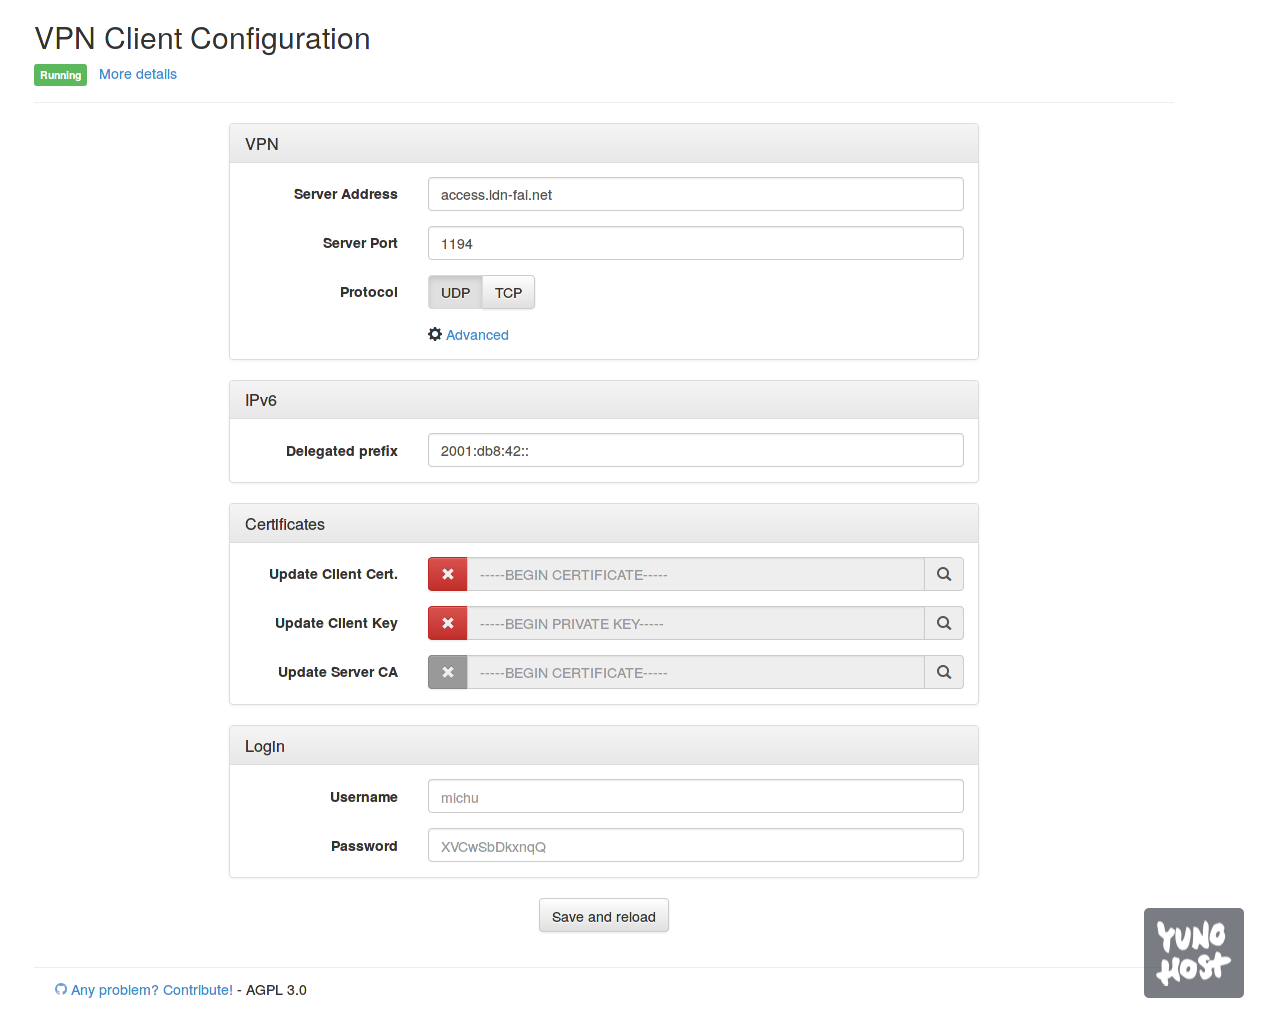
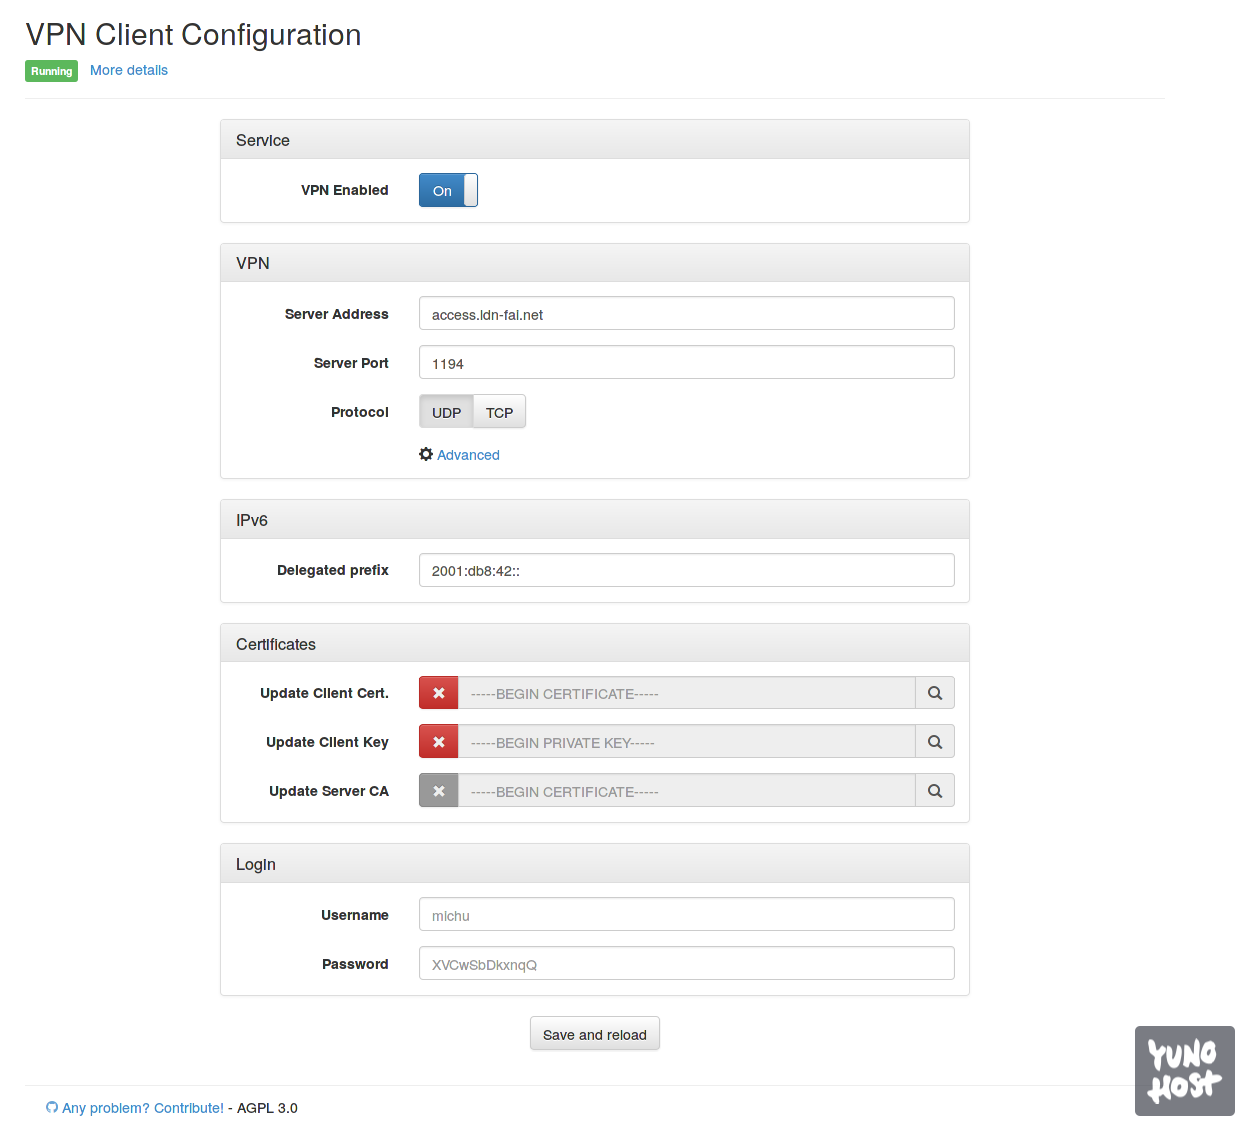
Add enable/disable feature

diff --git a/sources/public/js/bootstrap-toggle.min.js b/sources/public/js/bootstrap-toggle.min.js
@@ -1,0 +1,9 @@
+/*! ========================================================================
+ * Bootstrap Toggle: bootstrap-toggle.js v2.0.0
+ * http://www.bootstraptoggle.com
+ * ========================================================================
+ * Copyright 2014 Min Hur, The New York Times Company
+ * Licensed under MIT
+ * ======================================================================== */
++function(a){"use strict";function b(b){return this.each(function(){var d=a(this),e=d.data("bs.toggle"),f="object"==typeof b&&b;e||d.data("bs.toggle",e=new c(this,f)),"string"==typeof b&&e[b]&&e[b]()})}var c=function(b,c){this.$element=a(b),this.options=a.extend({},this.defaults(),c),this.render()};c.VERSION="3.0.0",c.DEFAULTS={on:"On",off:"Off",onstyle:"primary",offstyle:"default",size:"normal",style:""},c.prototype.defaults=function(){return{on:this.$element.attr("data-on")||c.DEFAULTS.on,off:this.$element.attr("data-off")||c.DEFAULTS.off,onstyle:this.$element.attr("data-onstyle")||c.DEFAULTS.onstyle,offstyle:this.$element.attr("data-offstyle")||c.DEFAULTS.offstyle,size:this.$element.attr("data-size")||c.DEFAULTS.size,style:this.$element.attr("data-style")||c.DEFAULTS.style}},c.prototype.render=function(){this._onstyle="btn-"+this.options.onstyle,this._offstyle="btn-"+this.options.offstyle;var b="large"===this.options.size?"btn-lg":"small"===this.options.size?"btn-sm":"mini"===this.options.size?"btn-xs":"",c=a('<label class="btn">').html(this.options.on).addClass(this._onstyle+" "+b),d=a('<label class="btn">').html(this.options.off).addClass(this._offstyle+" "+b+" active"),e=a('<span class="toggle-handle btn btn-default">').addClass(b),f=a('<div class="toggle-group">').append(c,d,e),g=a('<div class="toggle btn" data-toggle="toggle">').addClass(this.$element.prop("checked")?this._onstyle:this._offstyle+" off").addClass(b).addClass(this.options.style);this.$element.wrap(g),a.extend(this,{$toggle:this.$element.parent(),$toggleOn:c,$toggleOff:d,$toggleGroup:f}),this.$toggle.append(f);var h=Math.max(c.outerWidth(),d.outerWidth())+e.outerWidth()/2,i=Math.max(c.outerHeight(),d.outerHeight());c.addClass("toggle-on"),d.addClass("toggle-off"),this.$toggle.css({width:h,height:i}),this.update(),this.trigger(!0)},c.prototype.toggle=function(){this.$element.prop("checked")?this.off():this.on()},c.prototype.on=function(){return this.$element.prop("disabled")?!1:(this.$toggle.removeClass(this._offstyle+" off").addClass(this._onstyle),this.$element.prop("checked",!0),void this.trigger())},c.prototype.off=function(){return this.$element.prop("disabled")?!1:(this.$toggle.removeClass(this._onstyle).addClass(this._offstyle+" off"),this.$element.prop("checked",!1),void this.trigger())},c.prototype.enable=function(){this.$toggle.removeAttr("disabled"),this.$element.prop("disabled",!1)},c.prototype.disable=function(){this.$toggle.attr("disabled","disabled"),this.$element.prop("disabled",!0)},c.prototype.update=function(){this.$element.prop("disabled")?this.disable():this.enable(),this.$element.prop("checked")?this.on():this.off()},c.prototype.trigger=function(b){this.$element.off("change.bs.toggle"),b||this.$element.change(),this.$element.on("change.bs.toggle",a.proxy(function(){this.update()},this))},c.prototype.destroy=function(){this.$element.off("change.bs.toggle"),this.$toggleGroup.remove(),this.$element.removeData("bs.toggle"),this.$element.unwrap()};var d=a.fn.bootstrapToggle;a.fn.bootstrapToggle=b,a.fn.bootstrapToggle.Constructor=c,a.fn.toggle.noConflict=function(){return a.fn.bootstrapToggle=d,this},a(function(){a("input[type=checkbox][data-toggle^=toggle]").bootstrapToggle()}),a(document).on("click.bs.toggle","div[data-toggle^=toggle]",function(b){var c=a(this).find("input[type=checkbox]");c.bootstrapToggle("toggle"),b.preventDefault()})}(jQuery);
+//# sourceMappingURL=bootstrap-toggle.min.js.map

diff --git a/sources/public/css/bootstrap-toggle.min.css b/sources/public/css/bootstrap-toggle.min.css
@@ -1,0 +1,28 @@
+/*! ========================================================================
+ * Bootstrap Toggle: bootstrap-toggle.css v2.0.0
+ * http://www.bootstraptoggle.com
+ * ========================================================================
+ * Copyright 2014 Min Hur, The New York Times Company
+ * Licensed under MIT
+ * ======================================================================== */
+.checkbox label .toggle,.checkbox-inline .toggle{margin-left:-20px;margin-right:5px}
+.toggle{position:relative;overflow:hidden}
+.toggle input[type=checkbox]{display:none}
+.toggle-group{position:absolute;width:200%;top:0;bottom:0;left:0;transition:left .35s;-webkit-transition:left .35s;-moz-user-select:none;-webkit-user-select:none}
+.toggle.off .toggle-group{left:-100%}
+.toggle-on{position:absolute;top:0;bottom:0;left:0;right:50%;margin:0;border:0;border-radius:0}
+.toggle-off{position:absolute;top:0;bottom:0;left:50%;right:0;margin:0;border:0;border-radius:0}
+.toggle-handle{position:relative;margin:0 auto;padding-top:0;padding-bottom:0;height:100%;width:0;border-width:0 1px}
+.toggle.btn{min-width:59px;min-height:34px}
+.toggle-on.btn{padding-right:24px}
+.toggle-off.btn{padding-left:24px}
+.toggle.btn-lg{min-width:79px;min-height:45px}
+.toggle-on.btn-lg{padding-right:31px}
+.toggle-off.btn-lg{padding-left:31px}
+.toggle-handle.btn-lg{width:40px}
+.toggle.btn-sm{min-width:50px;min-height:30px}
+.toggle-on.btn-sm{padding-right:20px}
+.toggle-off.btn-sm{padding-left:20px}
+.toggle.btn-xs{min-width:35px;min-height:22px}
+.toggle-on.btn-xs{padding-right:12px}
+.toggle-off.btn-xs{padding-left:12px}

diff --git a/sources/public/js/custom.js b/sources/public/js/custom.js
@@ -20,6 +20,8 @@ $(document).ready(function() {
   $('.btn-group').button();
   $('[data-toggle="tooltip"]').tooltip();
 
+  $('.switch').bootstrapToggle();
+
   $('.fileinput').click(function() {
     if(!$(this).hasClass('btn-danger')) {
       var realinputid = '#' + $(this).attr('id').replace(/_chooser.*/, '');
@@ -86,5 +88,13 @@ $(document).ready(function() {
   $('#raw_openvpn_btn').click(function() {
     $('#raw_openvpn_btnpanel').hide();
     $('#raw_openvpn_panel').show('low');
+  });
+
+  $('#service_enabled').change(function() {
+    if($('#service_enabled').parent().hasClass('off')) {
+      $('.enabled').hide('slow');
+    } else {
+      $('.enabled').show('slow');
+    }
   });
 });

diff --git a/sources/controller.php b/sources/controller.php
@@ -65,6 +65,7 @@ dispatch('/', function() {
   $ip6_net = ($ip6_net == 'none') ? '' : $ip6_net;
   $raw_openvpn = file_get_contents('/etc/openvpn/client.conf.tpl');
 
+  set('service_enabled', moulinette_get('service_enabled'));
   set('server_name', moulinette_get('server_name'));
   set('server_port', moulinette_get('server_port'));
   set('server_proto', moulinette_get('server_proto'));
@@ -85,99 +86,109 @@ dispatch_put('/settings', function() {
   $crt_client_key_exists = file_exists('/etc/openvpn/keys/user.key');
   $crt_server_ca_exists = file_exists('/etc/openvpn/keys/ca-server.crt');
 
+  $service_enabled = isset($_POST['service_enabled']) ? 1 : 0;
   $ip6_net = empty($_POST['ip6_net']) ? 'none' : $_POST['ip6_net'];
   $ip6_addr = 'none';
 
-  try {
-    if(empty($_POST['server_name']) || empty($_POST['server_port']) || empty($_POST['server_proto'])) {
-      throw new Exception(T_('The Server Address, the Server Port and the Protocol cannot be empty'));
-    }
-  
-    if(!preg_match('/^\d+$/', $_POST['server_port'])) {
-      throw new Exception(T_('The Server Port must be only composed of digits'));
-    }
-  
-    if($_POST['server_proto'] != 'udp' && $_POST['server_proto'] != 'tcp') {
-      throw new Exception(T_('The Protocol must be "udp" or "tcp"'));
-    }
-  
-    if(($_FILES['crt_client']['error'] == UPLOAD_ERR_OK && $_FILES['crt_client_key']['error'] != UPLOAD_ERR_OK && (!$crt_client_key_exists || $_POST['crt_client_key_delete'] == 1))
-      || ($_FILES['crt_client_key']['error'] == UPLOAD_ERR_OK && $_FILES['crt_client']['error'] != UPLOAD_ERR_OK && (!$crt_client_exists || $_POST['crt_client_delete'] == 1))) {
-  
-      throw new Exception(T_('A Client Certificate is needed when you suggest a Key, or vice versa'));
-    }
-  
-    if(empty($_POST['login_user']) xor empty($_POST['login_passphrase'])) {
-      throw new Exception(T_('A Password is needed when you suggest a Username, or vice versa'));
-    }
-  
-    if($_FILES['crt_server_ca']['error'] != UPLOAD_ERR_OK && !$crt_server_ca_exists) {
-      throw new Exception(T_('You need a Server CA.'));
-    }
-  
-    if(($_FILES['crt_client_key']['error'] != UPLOAD_ERR_OK && (!$crt_client_key_exists || $_POST['crt_client_key_delete'] == 1)) && empty($_POST['login_user'])) {
-      throw new Exception(T_('You need either a Client Certificate, either a Username, or both'));
-    }
-  
-    if($ip6_net != 'none') {
-      $ip6_net = ipv6_expanded($ip6_net);
-  
-      if(empty($ip6_net)) {
-        throw new Exception(T_('The IPv6 Delegated Prefix format looks bad'));
+  if($service_enabled == 1) {
+    try {
+      if(empty($_POST['server_name']) || empty($_POST['server_port']) || empty($_POST['server_proto'])) {
+        throw new Exception(T_('The Server Address, the Server Port and the Protocol cannot be empty'));
       }
-  
-      $ip6_blocs = explode(':', $ip6_net);
-      $ip6_addr = "${ip6_blocs[0]}:${ip6_blocs[1]}:${ip6_blocs[2]}:${ip6_blocs[3]}:${ip6_blocs[4]}:${ip6_blocs[5]}:${ip6_blocs[6]}:42";
-  
-      $ip6_net = ipv6_compressed($ip6_net);
-      $ip6_addr = ipv6_compressed($ip6_addr);
-    }
+    
+      if(!preg_match('/^\d+$/', $_POST['server_port'])) {
+        throw new Exception(T_('The Server Port must be only composed of digits'));
+      }
+    
+      if($_POST['server_proto'] != 'udp' && $_POST['server_proto'] != 'tcp') {
+        throw new Exception(T_('The Protocol must be "udp" or "tcp"'));
+      }
+    
+      if(($_FILES['crt_client']['error'] == UPLOAD_ERR_OK && $_FILES['crt_client_key']['error'] != UPLOAD_ERR_OK && (!$crt_client_key_exists || $_POST['crt_client_key_delete'] == 1))
+        || ($_FILES['crt_client_key']['error'] == UPLOAD_ERR_OK && $_FILES['crt_client']['error'] != UPLOAD_ERR_OK && (!$crt_client_exists || $_POST['crt_client_delete'] == 1))) {
+    
+        throw new Exception(T_('A Client Certificate is needed when you suggest a Key, or vice versa'));
+      }
+    
+      if(empty($_POST['login_user']) xor empty($_POST['login_passphrase'])) {
+        throw new Exception(T_('A Password is needed when you suggest a Username, or vice versa'));
+      }
+    
+      if($_FILES['crt_server_ca']['error'] != UPLOAD_ERR_OK && !$crt_server_ca_exists) {
+        throw new Exception(T_('You need a Server CA.'));
+      }
+    
+      if(($_FILES['crt_client_key']['error'] != UPLOAD_ERR_OK && (!$crt_client_key_exists || $_POST['crt_client_key_delete'] == 1)) && empty($_POST['login_user'])) {
+        throw new Exception(T_('You need either a Client Certificate, either a Username, or both'));
+      }
+    
+      if($ip6_net != 'none') {
+        $ip6_net = ipv6_expanded($ip6_net);
+    
+        if(empty($ip6_net)) {
+          throw new Exception(T_('The IPv6 Delegated Prefix format looks bad'));
+        }
+    
+        $ip6_blocs = explode(':', $ip6_net);
+        $ip6_addr = "${ip6_blocs[0]}:${ip6_blocs[1]}:${ip6_blocs[2]}:${ip6_blocs[3]}:${ip6_blocs[4]}:${ip6_blocs[5]}:${ip6_blocs[6]}:42";
+    
+        $ip6_net = ipv6_compressed($ip6_net);
+        $ip6_addr = ipv6_compressed($ip6_addr);
+      }
 
-  } catch(Exception $e) {
-    flash('error', $e->getMessage().' ('.T_('configuration not updated').').');
-    goto redirect;
+    } catch(Exception $e) {
+      flash('error', $e->getMessage().' ('.T_('configuration not updated').').');
+      goto redirect;
+    }
   }
   
   stop_service();
   
-  moulinette_set('server_name', $_POST['server_name']);
-  moulinette_set('server_port', $_POST['server_port']);
-  moulinette_set('server_proto', $_POST['server_proto']);
-  moulinette_set('login_user', $_POST['login_user']);
-  moulinette_set('login_passphrase', $_POST['login_passphrase']);
-  moulinette_set('ip6_net', $ip6_net);
-  moulinette_set('ip6_addr', $ip6_addr);
-  
-  file_put_contents('/etc/openvpn/client.conf.tpl', $_POST['raw_openvpn']);
+  moulinette_set('service_enabled', $service_enabled);
 
-  if($_FILES['crt_client']['error'] == UPLOAD_ERR_OK) {
-    move_uploaded_file($_FILES['crt_client']['tmp_name'], '/etc/openvpn/keys/user.crt');
-  } elseif($_POST['crt_client_delete'] == 1) {
-    unlink('/etc/openvpn/keys/user.crt');
-  }
-  
-  if($_FILES['crt_client_key']['error'] == UPLOAD_ERR_OK) {
-    move_uploaded_file($_FILES['crt_client_key']['tmp_name'], '/etc/openvpn/keys/user.key');
-  } elseif($_POST['crt_client_key_delete'] == 1) {
-    unlink('/etc/openvpn/keys/user.key');
-  }
-  
-  if($_FILES['crt_server_ca']['error'] == UPLOAD_ERR_OK) {
-    move_uploaded_file($_FILES['crt_server_ca']['tmp_name'], '/etc/openvpn/keys/ca-server.crt');
-  }
-  
-  if(!empty($_POST['login_user'])) {
-    file_put_contents('/etc/openvpn/keys/credentials', "${_POST['login_user']}\n${_POST['login_passphrase']}");
+  if($service_enabled == 1) {
+    moulinette_set('server_name', $_POST['server_name']);
+    moulinette_set('server_port', $_POST['server_port']);
+    moulinette_set('server_proto', $_POST['server_proto']);
+    moulinette_set('login_user', $_POST['login_user']);
+    moulinette_set('login_passphrase', $_POST['login_passphrase']);
+    moulinette_set('ip6_net', $ip6_net);
+    moulinette_set('ip6_addr', $ip6_addr);
+    
+    file_put_contents('/etc/openvpn/client.conf.tpl', $_POST['raw_openvpn']);
+
+    if($_FILES['crt_client']['error'] == UPLOAD_ERR_OK) {
+      move_uploaded_file($_FILES['crt_client']['tmp_name'], '/etc/openvpn/keys/user.crt');
+    } elseif($_POST['crt_client_delete'] == 1) {
+      unlink('/etc/openvpn/keys/user.crt');
+    }
+    
+    if($_FILES['crt_client_key']['error'] == UPLOAD_ERR_OK) {
+      move_uploaded_file($_FILES['crt_client_key']['tmp_name'], '/etc/openvpn/keys/user.key');
+    } elseif($_POST['crt_client_key_delete'] == 1) {
+      unlink('/etc/openvpn/keys/user.key');
+    }
+    
+    if($_FILES['crt_server_ca']['error'] == UPLOAD_ERR_OK) {
+      move_uploaded_file($_FILES['crt_server_ca']['tmp_name'], '/etc/openvpn/keys/ca-server.crt');
+    }
+    
+    if(!empty($_POST['login_user'])) {
+      file_put_contents('/etc/openvpn/keys/credentials', "${_POST['login_user']}\n${_POST['login_passphrase']}");
+    } else {
+      file_put_contents('/etc/openvpn/keys/credentials', '');
+    }
+
+    $retcode = start_service();
+
+    if($retcode == 0) {
+      flash('success', T_('Configuration updated and service successfully reloaded'));
+    } else {
+      flash('error', T_('Configuration updated but service reload failed'));
+    }
+
   } else {
-    file_put_contents('/etc/openvpn/keys/credentials', '');
-  }
-
-  $retcode = start_service();
-
-  if($retcode == 0) {
-    flash('success', T_('Configuration updated and service successfully reloaded'));
-  } else {
-    flash('error', T_('Configuration updated but service reload failed'));
+      flash('success', T_('Service successfully disabled'));
   }
 
   redirect:

diff --git a/sources/views/settings.html.php b/sources/views/settings.html.php
@@ -40,6 +40,23 @@
 
       <div class="panel panel-default">
         <div class="panel-heading">
+          <h3 class="panel-title"><?= T_("Service") ?></h3>
+        </div>
+
+        <div style="padding: 14px 14px 0 10px">
+          <div class="form-group">
+            <label for="wifi_secure" class="col-sm-3 control-label"><?= T_('VPN Enabled') ?></label>
+            <div class="col-sm-9 input-group-btn">
+              <div class="input-group">
+                <input type="checkbox" class="form-control switch" name="service_enabled" id="service_enabled" value="1" <?= $service_enabled == 1 ? 'checked="checked"' : '' ?> />
+              </div>
+            </div>
+          </div>
+        </div>
+      </div>
+
+      <div class="panel panel-default enabled" <?= $service_enabled == 0 ? 'style="display: none"' : '' ?>>
+        <div class="panel-heading">
           <h3 class="panel-title"><?= T_("VPN") ?></h3>
         </div>
 
@@ -87,7 +104,7 @@
         </div>
       </div>
 
-      <div class="panel panel-default">
+      <div class="panel panel-default enabled" <?= $service_enabled == 0 ? 'style="display: none"' : '' ?>>
         <div class="panel-heading">
           <h3 class="panel-title"><?= T_("IPv6") ?></h3>
         </div>
@@ -103,13 +120,13 @@
       </div>
 
       <?php if(!$crt_client_key_exists && empty($login_user)): ?>
-        <div class="alert alert-dismissible alert-warning fade in" style="margin: 2px 0px 17px" role="alert">
+        <div class="alert alert-dismissible alert-warning fade in enabled" <?= $service_enabled == 0 ? 'style="display: none"' : '' ?> style="margin: 2px 0px 17px" role="alert">
           <button type="button" class="close" data-dismiss="alert"><span aria-hidden="true">&times;</span><span class="sr-only">Close</span></button>
           <strong><?= T_('Notice') ?>:</strong> <?= T_("You need to upload a Client Certificate, or define a Username (or both) for starting your VPN Client.") ?>
         </div>
       <?php endif; ?>
 
-      <div class="panel panel-default">
+      <div class="panel panel-default enabled" <?= $service_enabled == 0 ? 'style="display: none"' : '' ?>>
         <div class="panel-heading">
           <h3 class="panel-title"><?= T_("Certificates") ?></h3>
         </div>
@@ -163,7 +180,7 @@
         </div>
       </div>
 
-      <div class="panel panel-default">
+      <div class="panel panel-default enabled" <?= $service_enabled == 0 ? 'style="display: none"' : '' ?>>
         <div class="panel-heading">
           <h3 class="panel-title"><?= T_("Login") ?></h3>
         </div>

diff --git a/sources/views/layout.html.php b/sources/views/layout.html.php
@@ -32,10 +32,12 @@
 
   <link media="all" type="text/css" href="<?= PUBLIC_DIR ?>/bootstrap/css/bootstrap.min.css" rel="stylesheet">
   <link media="all" type="text/css" href="<?= PUBLIC_DIR ?>/bootstrap/css/bootstrap-theme.min.css" rel="stylesheet">
+  <link media="all" type="text/css" href="<?= PUBLIC_DIR ?>/css/bootstrap-toggle.min.css" rel="stylesheet">
   <link media="all" type="text/css" href="<?= PUBLIC_DIR ?>/css/style.css" rel="stylesheet">
 
   <script src="<?= PUBLIC_DIR ?>/jquery/jquery-2.1.1.min.js"></script>
   <script src="<?= PUBLIC_DIR ?>/bootstrap/js/bootstrap.min.js"></script>
+  <script src="<?= PUBLIC_DIR ?>/js/bootstrap-toggle.min.js"></script>
   <script src="<?= PUBLIC_DIR ?>/js/custom.js"></script>
 </head>
 
